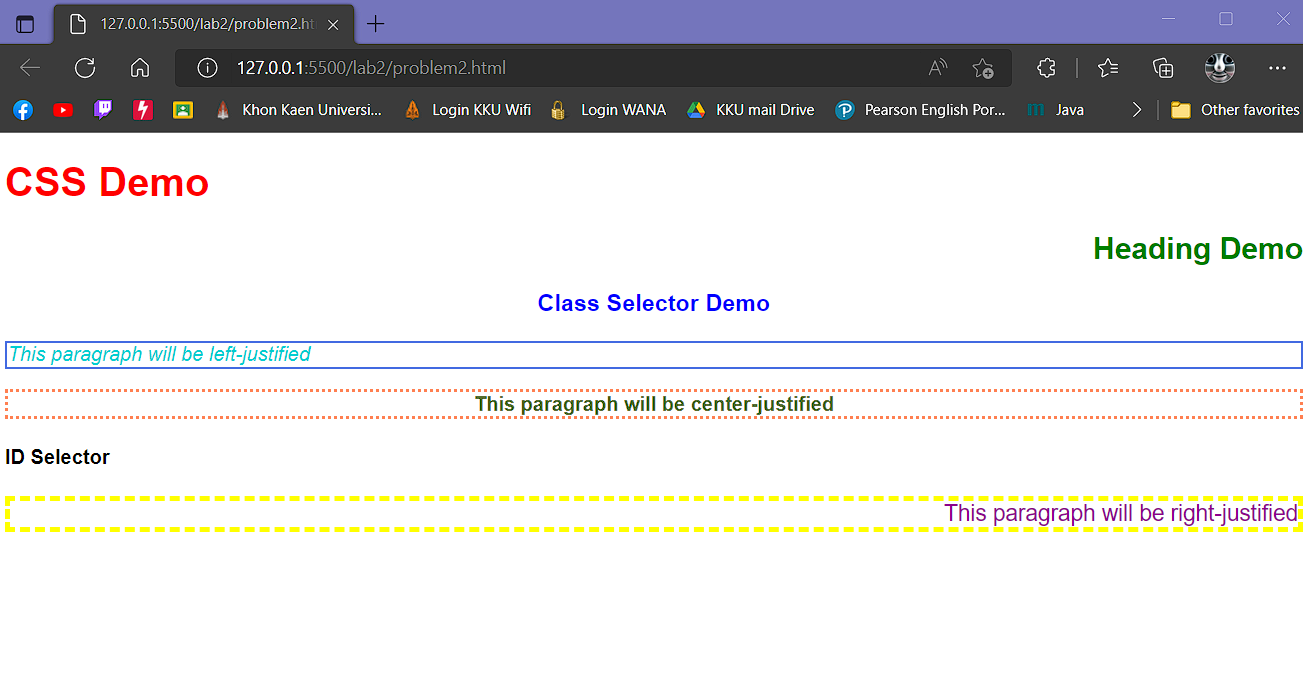
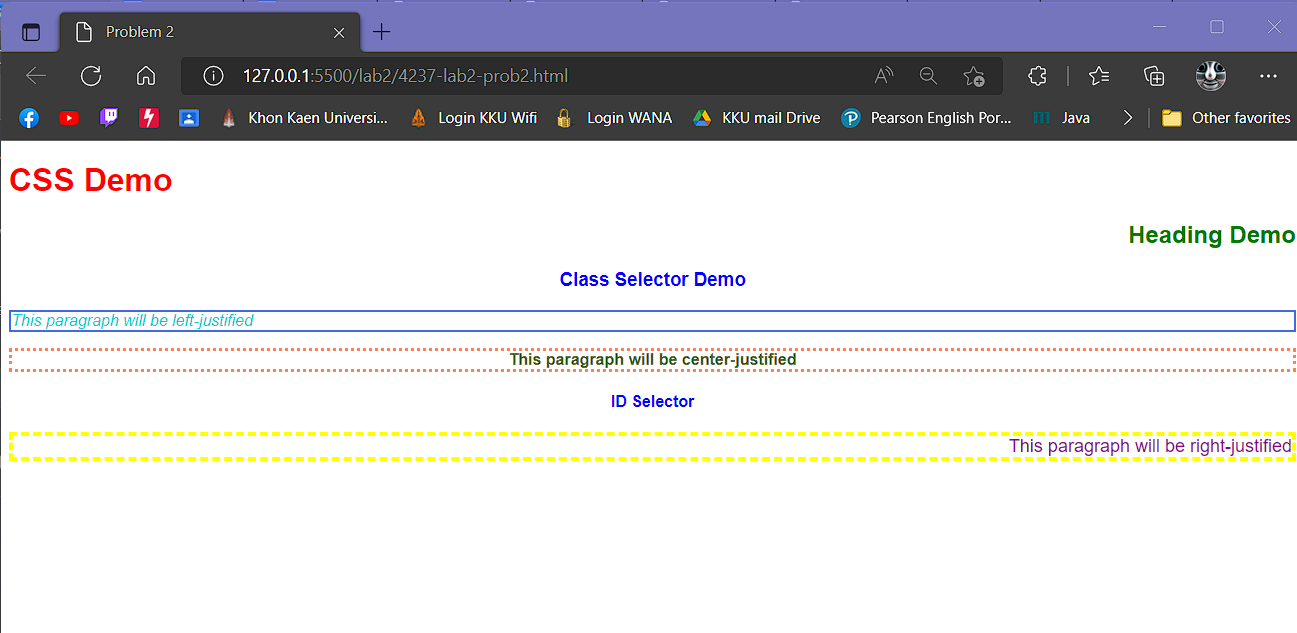
final lab2

Changed region(s): [[0.0, 0.4202, 1.0, 0.8104], [0.0, 0.0, 1.0, 0.3002], [0.8327, 0.3302, 1.0, 0.3902]]

diff --git a/lab2/4237-lab2-prob2.html b/lab2/4237-lab2-prob2.html
@@ -11,7 +11,7 @@
                 color: green;
                 text-align: right;
             }
-            h3  {
+            h3 , h4 {
                 color: blue;
                 text-align: center;
             }
